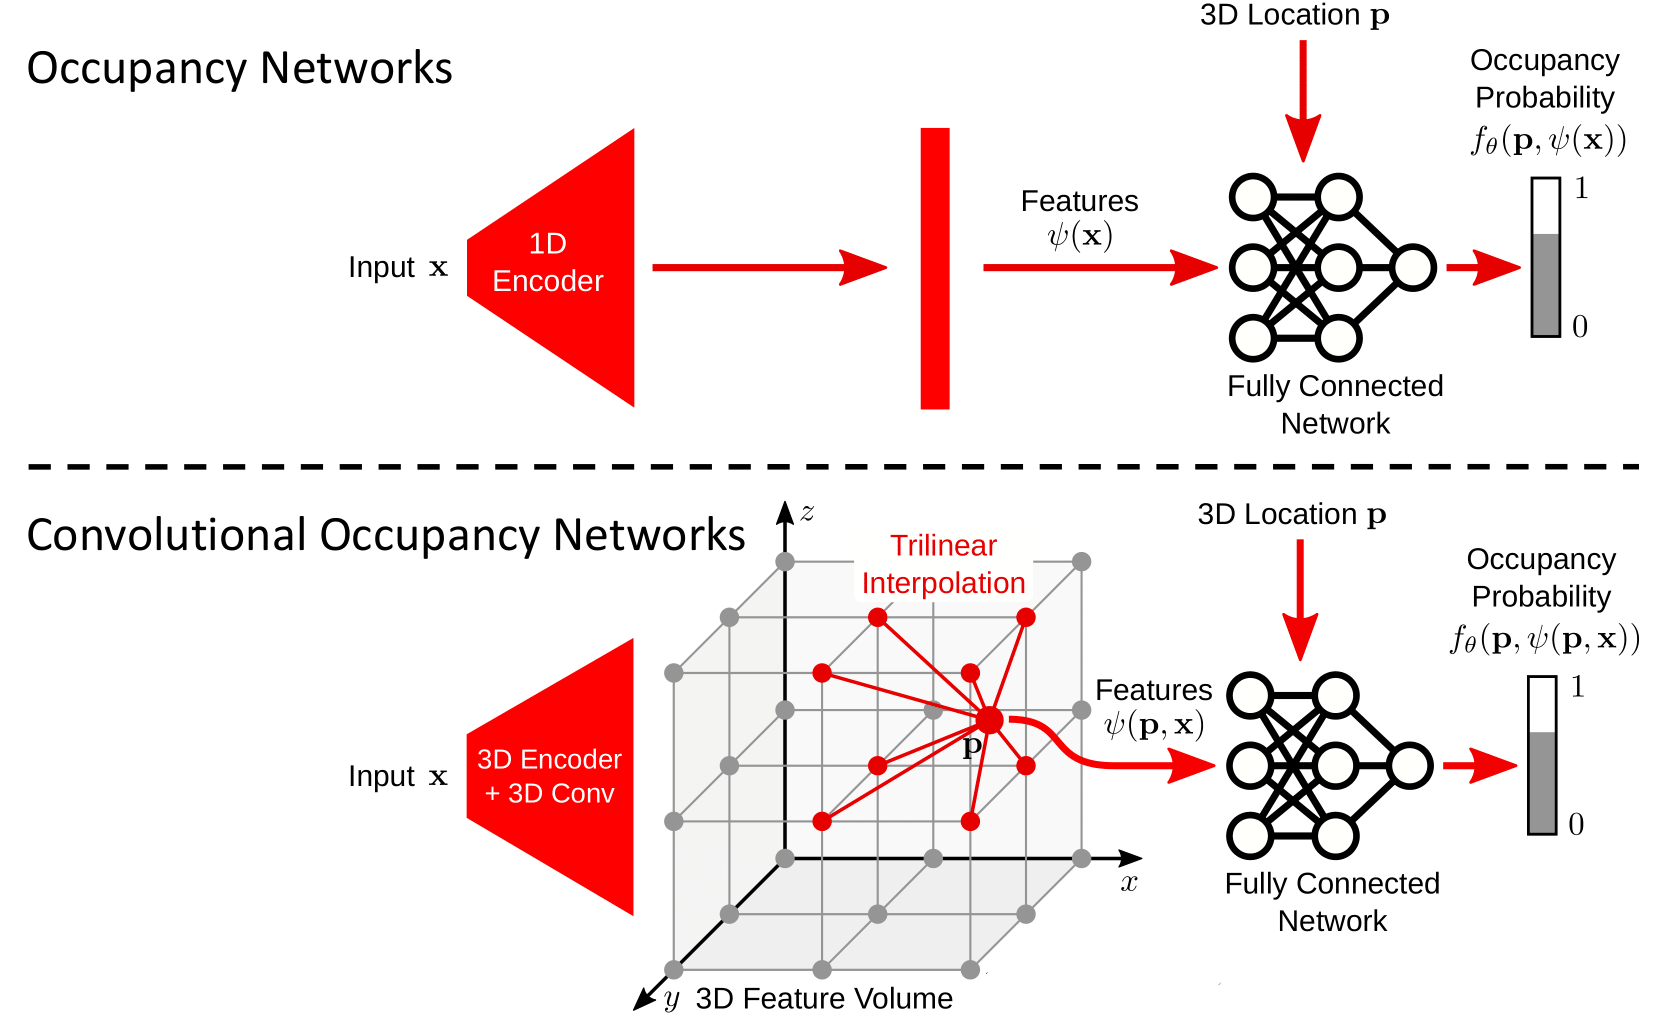
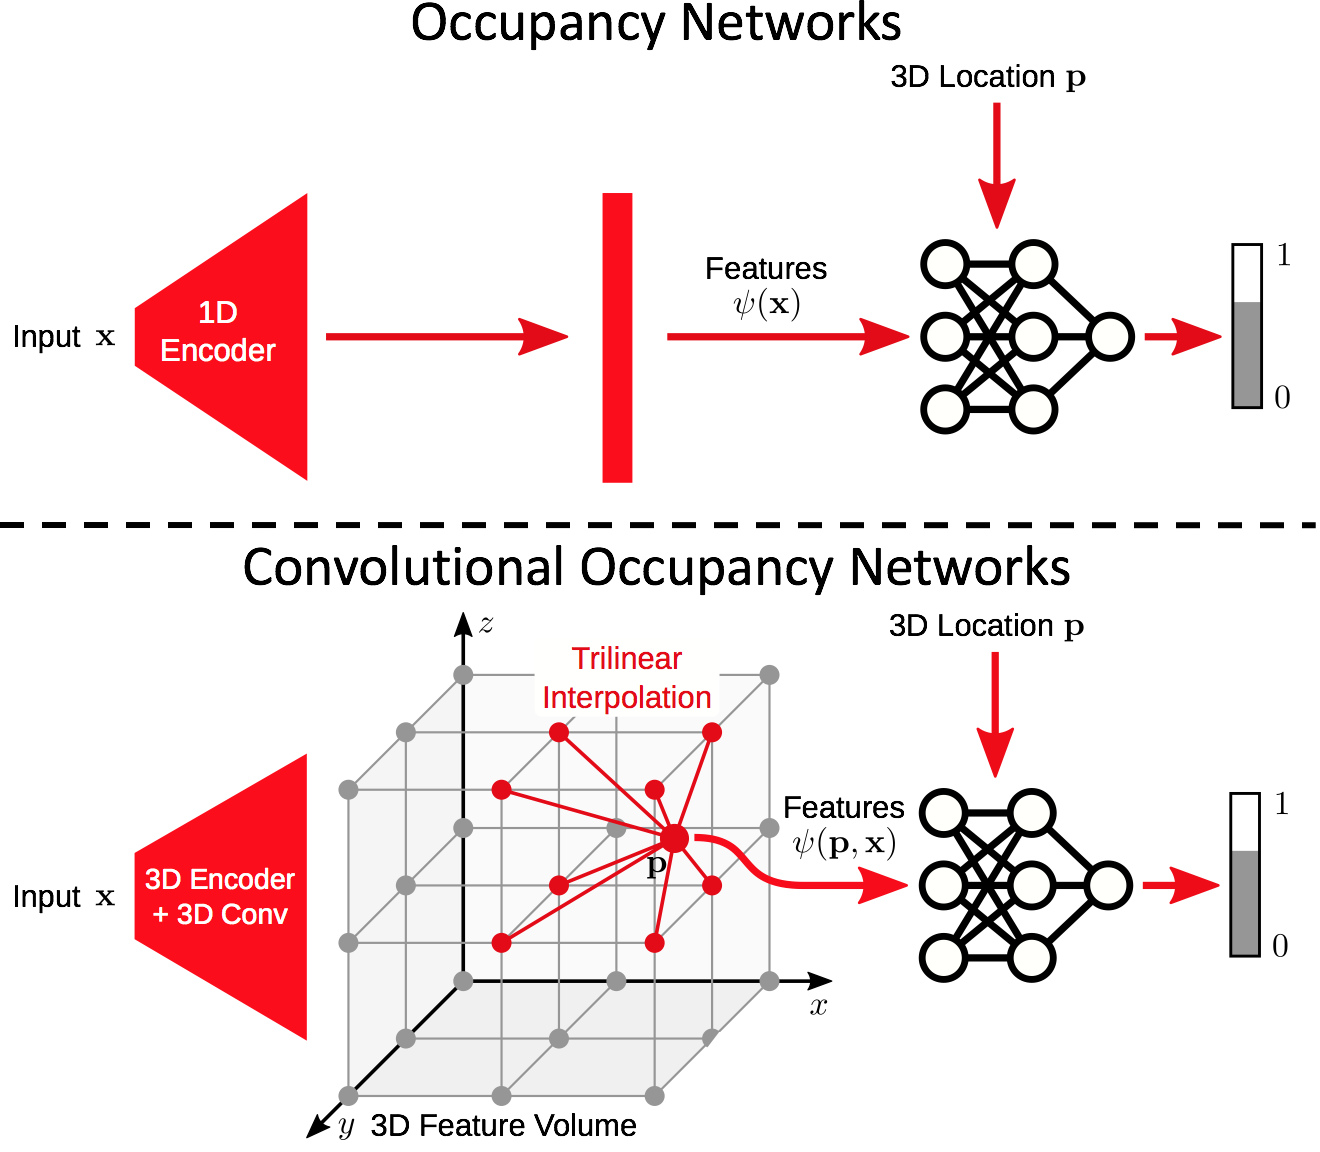
update comparison

diff --git a/_posts/2020-08-28-convolutional-occupancy-networks.md b/_posts/2020-08-28-convolutional-occupancy-networks.md
@@ -42,7 +42,7 @@ The feature volume only contains local features from the sparse input points. In
 
 Now, given any point in 3D space, we need to predict if it is occupied. To do so, we can pass the point's 3D point coordinate as well as a feature vector into a fully-connected network to make prediction. Unlike the original ONet that every point uses the same global feature, our method queries a feature for each point from the processed feature volume by trilinear interpolation.
 <p style="text-align: center">
-<img src="{{ site.url }}/assets/posts/2020-08-28-convolutional-occupancy-networks/model_comp.png" width="100%" />
+<img src="{{ site.url }}/assets/posts/2020-08-28-convolutional-occupancy-networks/model_comp.png" width="80%" />
 </p>
 
 This is basically the idea! In addition to the 3D feature volume, we also explore the use of canonical plane(s) to store features. If you are interested, please refer to the paper.
